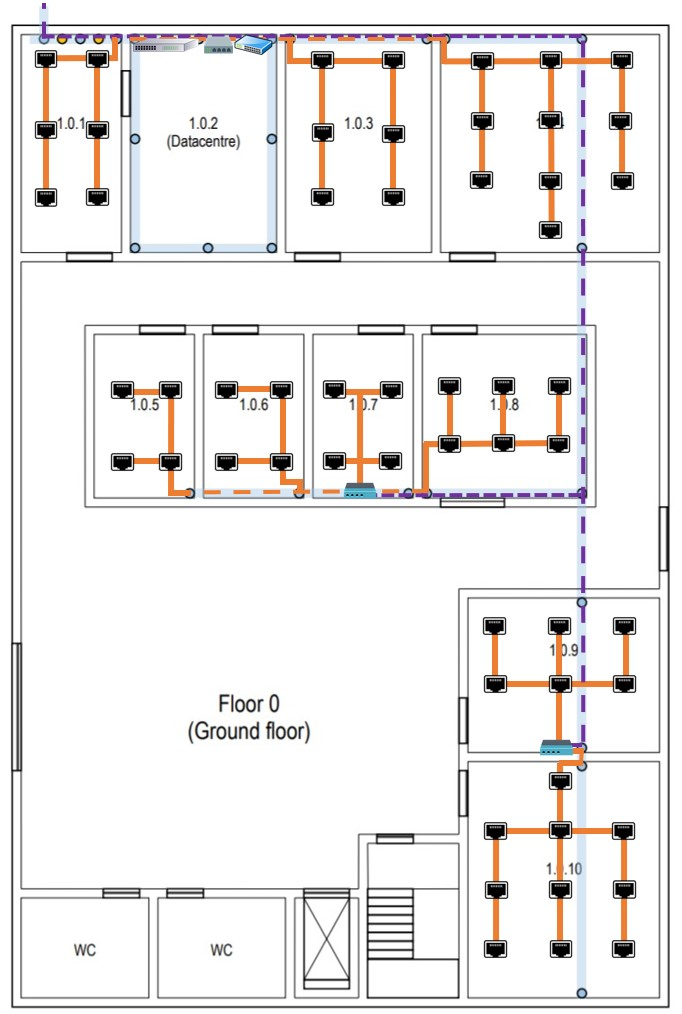
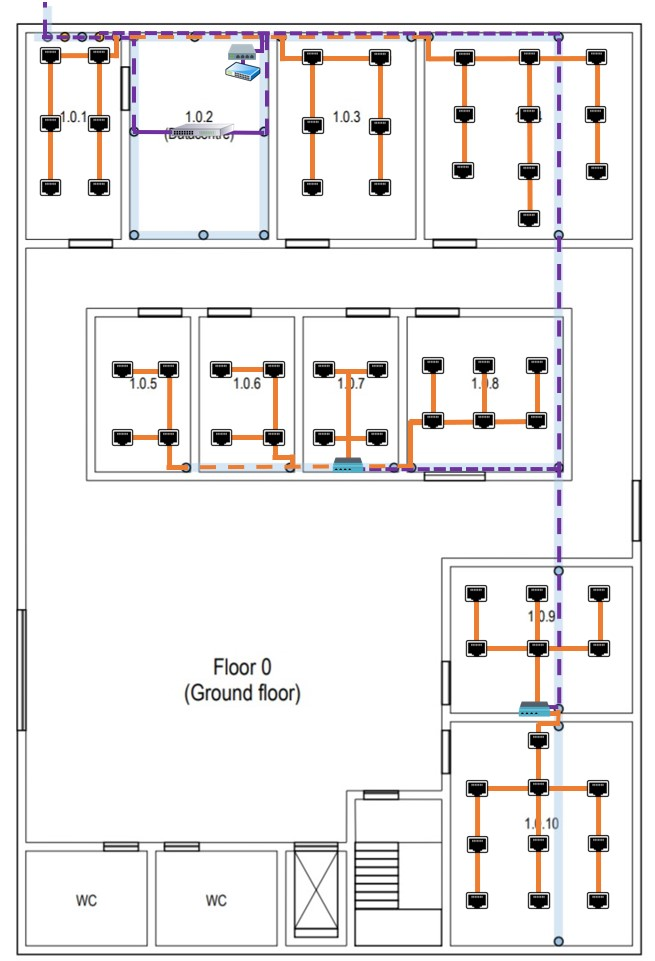
Começo da justificação das decisões tomadas

diff --git a/doc/sprint1/1201386/README.md b/doc/sprint1/1201386/README.md
@@ -1,25 +1,12 @@
 RCOMP 2021-2022 Project - Sprint 1 - Member 1201386 Folder
 ===========================================
 
-## Identificação das normas de cablagem estruturada utilizadas
-
-### Outlets
-- Mínimo de 2 outlets por área de trabalho.
-- Proporção de 2 outlets para cada 10 metros quadrados de área.
-- Na distribuição dos outlets procurou-se obter as soluções que menos obstruíssem os quartos, tendo 
-em atenção o posicionamento destes fora da zona com portas.
-
-###  Horizontal cross-connect
-- Por cada 1000 metros quadrados de área tem de existir 1 HC.
-
 ## Edifício 1
 
 ### Medida do edifício:
-- 30m x 20m = 600 metros quadrados
+- 30m × 20m = 600 metros quadrados
 
 ## Edifico 1 - Piso 0
-
-![1201386](1201386_Building1_Floor0.jpg)
 
 ### Medida da escala:
 
@@ -39,21 +26,50 @@ em atenção o posicionamento destes fora da zona com portas.
 |1.0.9  |4,6296          	|5,9259     	 |27,4345	  |	6	            	 |
 |1.0.10 |7,2222          	|5,9259     	 |42,798	  |	10	            	 |
 
-### Justificações Relevantes:
-
-- As áreas comuns, como o átrio de entrada, as casas de banho e as escadas, não 
-  necessitam de tomadas de rede.
-  
-- Este piso apresenta apenas um HC, pois este tem uma cobertura de cerca de 1000 metros 
-  quadrados e o edifício apresenta apenas 600 metros quadrados de área.
-
-### Disposição dos Outlets:
-
-![1201386](1201386_Building1_Floor0_Outlets.jpg)
-
-### Disposição dos Caminhos de Cabos:
+### Plano da Cablagem Estruturada:
 
 ![1201386](1201386_Building1_Floor0_Cabos.jpg)
+
+### Justificações Relevantes:
+  
+#### Outlets
+
+- As áreas comuns, como o átrio de entrada, as casas de banho e as escadas, não
+  necessitam de outlets.
+  
+- A distribuição dos outlets foi realizada tendo em consideração os melhores locais
+  para que o room em questão não fosse muito afetado, para que não ficassem próximas de portas
+  e para que seja possível com maior facilidade aproveitar o meio da sala para trabalhar.
+
+- No posicionamento dos outlets foi também pensado de modo que entre os mesmos, a distância máxima seja
+  de três metros, para que em qualquer parte da sala onde o equipamento do utilizador se encontre
+  consiga com o patch cord que é fornecido ter acesso a uma tomada de rede.
+  
+- A quantidade de outlets por room foi obtida utilizando a proporção de 2 outlets para cada 
+  10 metros quadrados de área.
+
+####  Consolidation Points
+
+####  Horizontal cross-connect
+
+- Este piso apresenta apenas um HC, pois este tem uma cobertura de cerca de 1000 metros
+  quadrados e o edifício apresenta apenas 600 metros quadrados de área.
+
+####  Intermediate cross-connect
+
+- O datacentre do edifício e do campus está localizado na sala 1.0.2 portanto o Intermediate cross-connect
+  foi colocado nesta sala localizado no mesmo armário técnico que o Horizontal cross-connect.
+
+####  Main cross-connect
+
+- O datacentre do edifício e do campus está localizado na sala 1.0.2 portanto o main cross-connect
+  foi colocado nesta sala. 
+  
+- O Main cross-connect é responsável por distribuir para o Intermediate cross-connect deste edifício e dos outros
+  a fibra ótica monomodo através da passagem para o exterior, por este motivo do MC sai 1 cabo de fibra ótica monomodo
+  que se conecta ao IC deste edifício.
+  
+- Optou-se que este fica-se no meio da sala para uma melhor manutenção futura.
 
 ### Inventário Total Piso 0:
 
@@ -61,14 +77,11 @@ em atenção o posicionamento destes fora da zona com portas.
 |-------------|------------|
 |Outlets	  |	56		   |
 
-## Edifico 1 - Piso 1 
-
-![1201386](1201386_Building1_Floor1.jpg)
+## Edifico 1 - Piso 1
 
 ### Medida da escala:
 
 - 5m (real) = 2,7cm (escala)
-
 
 ### Informações Calculadas:
 | Room  |	Comprimento (m) |	Largura (m)	 | Área (m2)  |Quantidade de outlets |
@@ -88,11 +101,7 @@ em atenção o posicionamento destes fora da zona com portas.
 |1.1.13 |5               	|2,7778     	 |13,889	  |	4	            	 |
 |1.1.14 |7,2222          	|5,9259     	 |42,798	  |	10	            	 |
 
-### Disposição dos Outlets:
-
-![1201386](1201386_Building1_Floor1_Outlets.jpg)
-
-### Disposição dos Caminhos de Cabos:
+### Plano da Cablagem Estruturada:
 
 ![1201386](1201386_Building1_Floor1_Cabos.jpg)
 
@@ -102,7 +111,11 @@ em atenção o posicionamento destes fora da zona com portas.
   e o mesmo aplica-se às casas de banho e a áreas comuns como corredores e átrios.
 
 - Do piso anterior, através de uma calha técnica, 2 cabos de fibra ótica emergem 
-  provinientes do IC.
+  provenientes do IC.
+
+#### Consolidation Points
+
+-
   
 ####  Horizontal cross-connect
 
@@ -113,11 +126,6 @@ em atenção o posicionamento destes fora da zona com portas.
   podia ser usada para abrigar uma cross-connect por ser uma área de armazenamento.
 
 - O HC é responsável pelas salas 1.1.2 e 1.1.3.
-
-#### Consolidation Points
-
-- 
-
 
 
 ### Inventário Total Piso 1:
